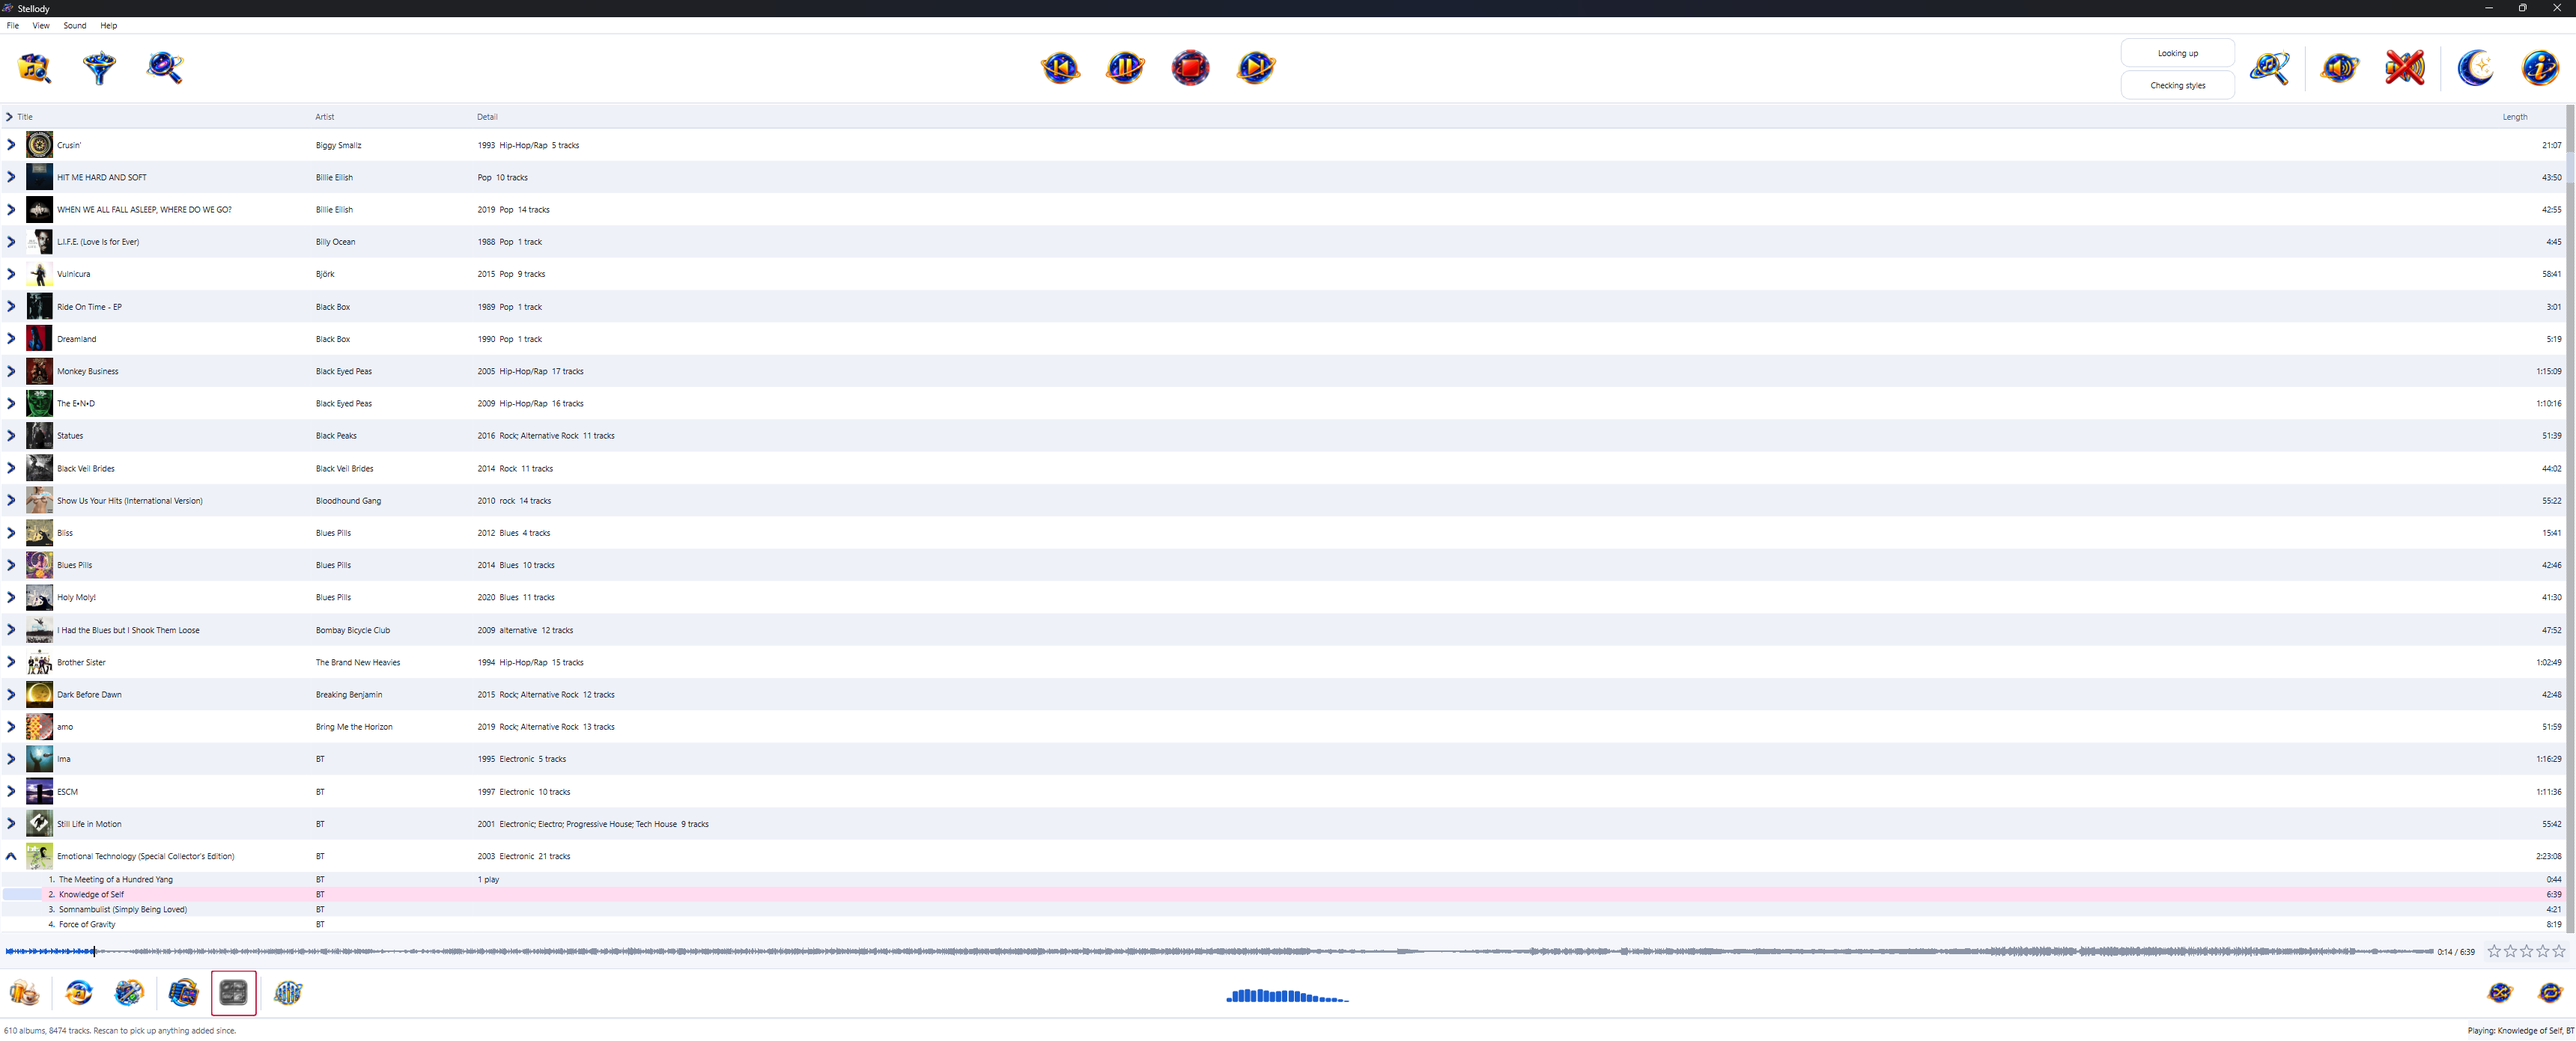
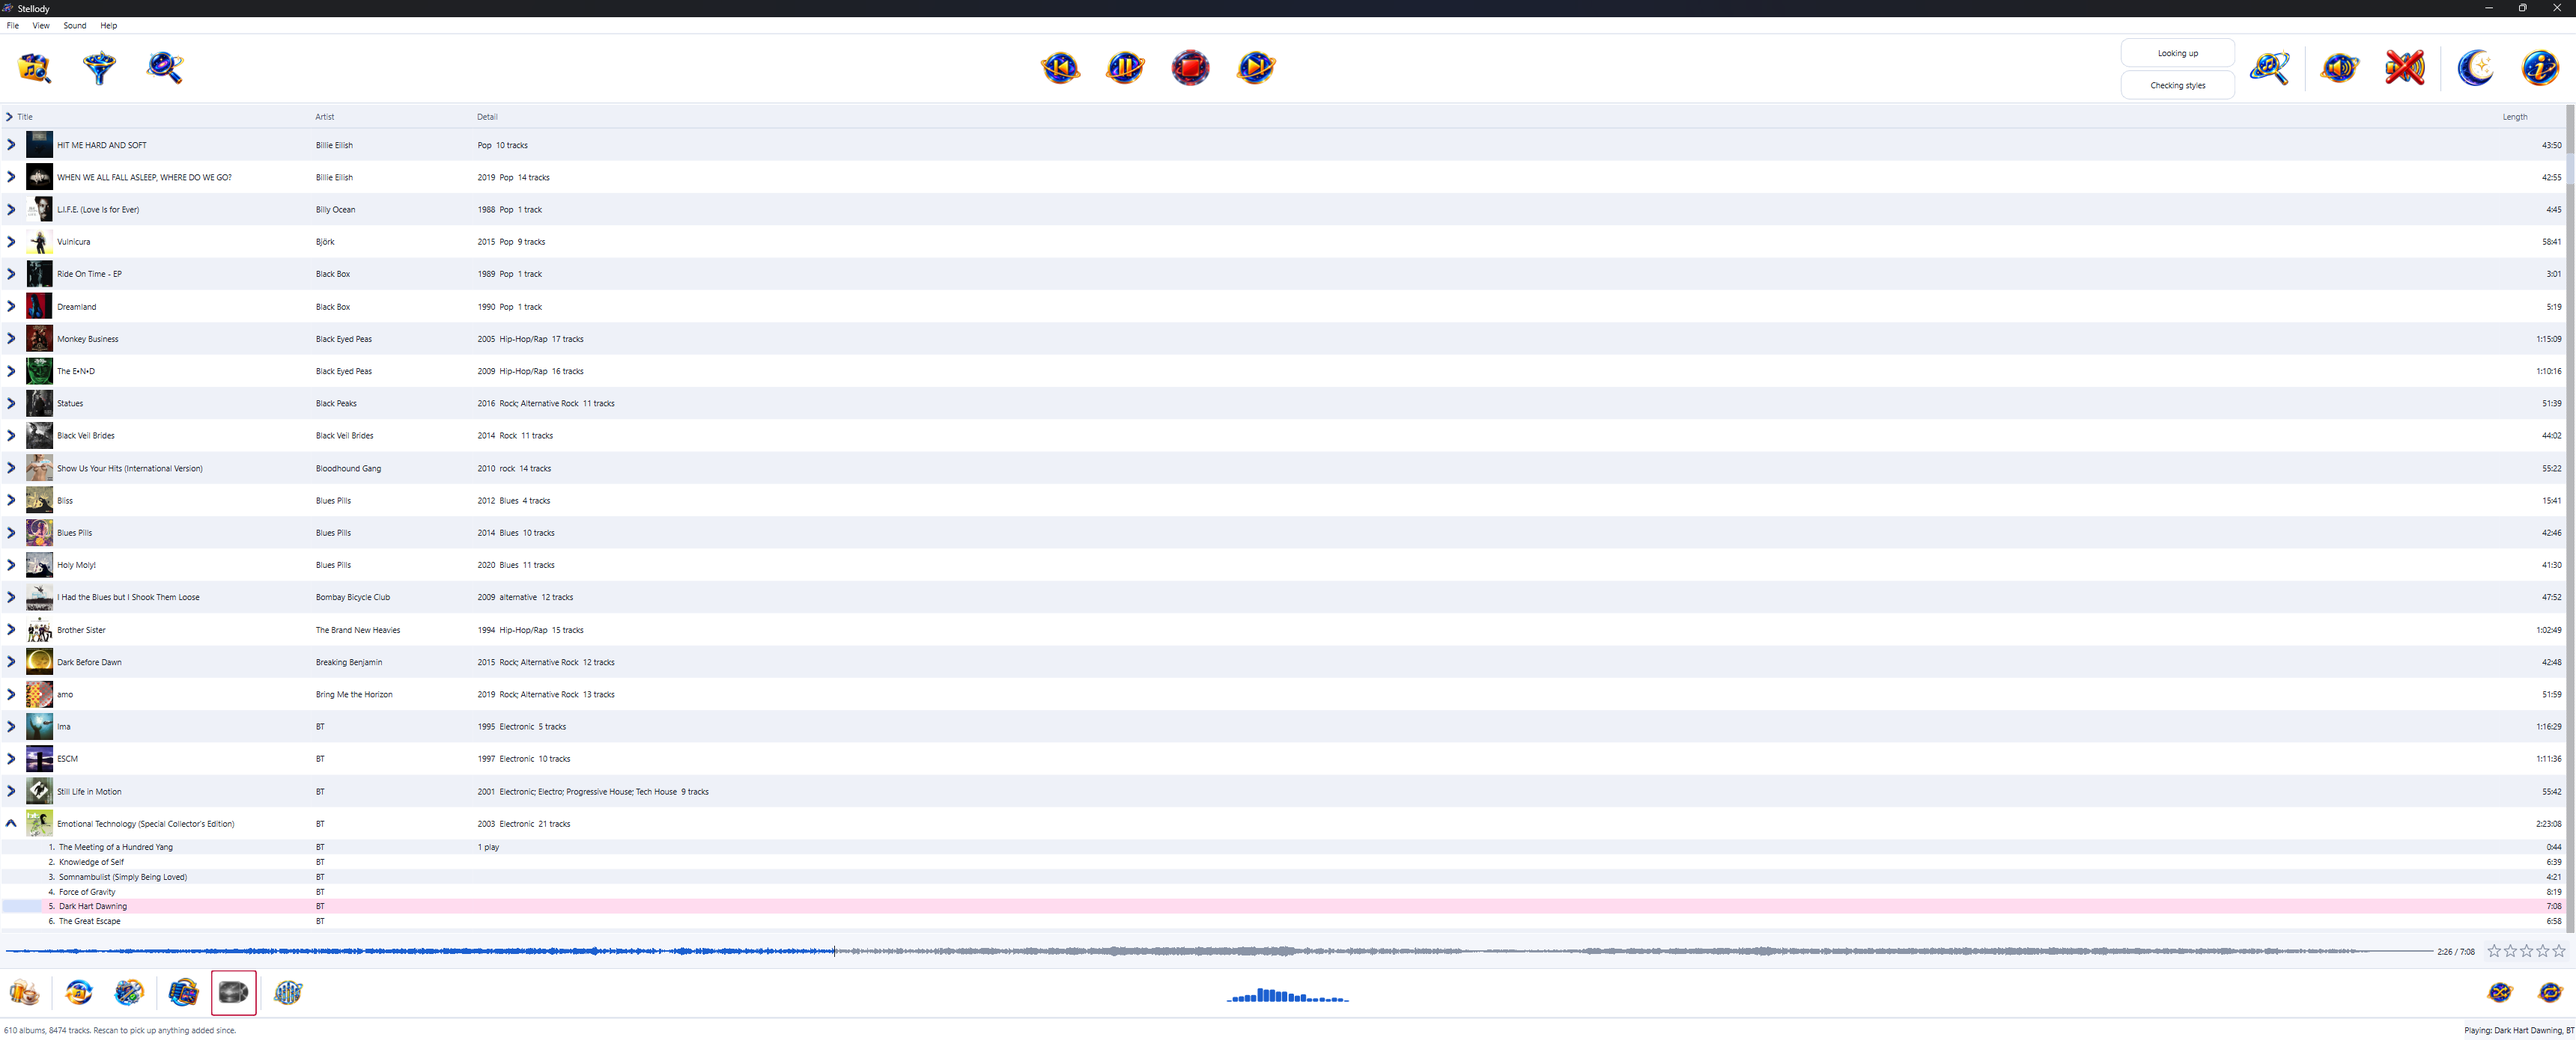
Bump the minor version and bring the docs and site up to the output-device pause
The README and the features page describe pausing when the sound output changes, the stack table and the layers table name Qt Multimedia, both screenshots are replaced and their descriptions follow what they now show. The site is stamped from VERSION.

diff --git a/docs/features.html b/docs/features.html
@@ -219,7 +219,7 @@
     </div>
   </div>
   <div class="shot" style="margin-top:2.5rem;">
-    <img src="screenshots/screenshot2.png" width="1720" height="695" alt="Stellody's list view in its light appearance: one row per album with its cover, its title and its artist, then a detail column giving the year, the genres the album states and the track count, with the length at the right. An album carrying several genres lists them all there. Each row carries the chevron that opens it, with one at the left of the Title heading for opening every album at once. BT's Emotional Technology (Special Collector's Edition) is open at the foot of the list, showing its tracks, with Knowledge of Self, the track playing, painted pink on its row. The foot of the window reads Playing: Knowledge of Self, BT. The two discovery bars sit at rest in the tray above, each labelled with its stage and empty because no search is running. The waveform of the playing track runs along the bottom, while the spectrum display sits in the middle of the strip below it.">
+    <img src="screenshots/screenshot2.png" width="1720" height="695" alt="Stellody's list view in its light appearance: one row per album with its cover, its title and its artist, then a detail column giving the year, the genres the album states and the track count, with the length at the right. An album carrying several genres lists them all there. Each row carries the chevron that opens it, with one at the left of the Title heading for opening every album at once. BT's Emotional Technology (Special Collector's Edition) is open at the foot of the list, showing its tracks, with Dark Hart Dawning, the track playing, painted pink on its row and one play noted beside the first track. The foot of the window reads Playing: Dark Hart Dawning, BT. The two discovery bars sit at rest in the tray above, each labelled with its stage and empty because no search is running. The waveform of the playing track runs along the bottom, while the spectrum display sits in the middle of the strip below it.">
   </div>
   <p class="shot-caption">The list view, with the play controls across the top and your settings along the bottom.</p>
 </section>
@@ -415,6 +415,13 @@
       sound device back and leaves the rest of your library working.</p>
     </div>
     <div class="feat">
+      <h3>Headphones in, music paused</h3>
+      <p>When your computer's sound output changes, say because headphones have just connected, Stellody
+      pauses the music rather than carrying on through the device you have left. Both play buttons turn
+      back to play at once and the bottom of the window says why. Press play and the song carries on
+      through the new output from the point you last heard.</p>
+    </div>
+    <div class="feat">
       <h3>Albums that flow, flow</h3>
       <p>Live recordings, concept albums and most dance records are made to run straight through with no
       pause between the songs. Stellody plays them that way, with no silence dropped in where the artist
@@ -606,7 +613,7 @@
     </div>
     <div class="footer-bottom">
       <p>A free, quiet music player for the collection you already own. No cloud, no account.
-      Version <!--VERSION-->1.2.2<!--/VERSION-->, model under GPL-3.0, user interface under LGPL-3.0.
+      Version <!--VERSION-->1.3.0<!--/VERSION-->, model under GPL-3.0, user interface under LGPL-3.0.
       A commercial licence for my own code is also available, separately from the open-source licences: see <a href="https://ernster.dev/commercial-licensing.html">commercial licensing</a>.
       &copy; Oliver Ernster</p>
     </div>

diff --git a/docs/index.html b/docs/index.html
@@ -111,7 +111,7 @@
 
   <div class="hero-shot fade d4">
     <div class="shot">
-      <img src="screenshots/screenshot1.png" width="1720" height="695" alt="Stellody in its dark appearance, showing the collection as a grid of album sleeves. BT's Emotional Technology (Special Collector's Edition) is picked out and opened in a pane beneath the grid: its cover, its title and its year above a five star album rating, then its tracks laid out in two columns with a length beside each. The Meeting of a Hundred Yang, the track playing, is marked on its row in the pane, while the foot of the window reads Playing: The Meeting of a Hundred Yang, BT. The play controls sit in the middle of the tray along the top, with the two discovery bars at rest to the right of them, each labelled with its stage and empty because no search is running. The waveform of the playing track runs along the bottom with the part already played picked out from the part still to come, while the spectrum display sits in the middle of the strip below it.">
+      <img src="screenshots/screenshot1.png" width="1720" height="695" alt="Stellody in its dark appearance, showing the collection as a grid of album sleeves. BT's Emotional Technology (Special Collector's Edition) is picked out and opened in a pane beneath the grid: its cover, its title and its year above a five star album rating, then its tracks laid out in two columns with a length beside each. Dark Hart Dawning, the track playing, is marked on its row in the pane and the first track notes one play, while the foot of the window reads Playing: Dark Hart Dawning, BT. The play controls sit in the middle of the tray along the top, with the two discovery bars at rest to the right of them, each labelled with its stage and empty because no search is running. The waveform of the playing track runs along the bottom with the part already played picked out from the part still to come, while the spectrum display sits in the middle of the strip below it.">
     </div>
     <p class="shot-caption">Click a cover to open the album underneath it. The rest of your collection stays exactly where it was.</p>
   </div>
@@ -312,7 +312,7 @@
     </div>
     <div class="footer-bottom">
       <p>A free, quiet music player for the collection you already own. No cloud, no account.
-      Version <!--VERSION-->1.2.2<!--/VERSION-->, model under GPL-3.0, user interface under LGPL-3.0.
+      Version <!--VERSION-->1.3.0<!--/VERSION-->, model under GPL-3.0, user interface under LGPL-3.0.
       A commercial licence for my own code is also available, separately from the open-source licences: see <a href="https://ernster.dev/commercial-licensing.html">commercial licensing</a>.
       &copy; Oliver Ernster</p>
     </div>

diff --git a/docs/download.html b/docs/download.html
@@ -158,7 +158,7 @@
     </div>
     <div class="footer-bottom">
       <p>A free, quiet music player for the collection you already own. No cloud, no account.
-      Version <!--VERSION-->1.2.2<!--/VERSION-->, model under GPL-3.0, user interface under LGPL-3.0.
+      Version <!--VERSION-->1.3.0<!--/VERSION-->, model under GPL-3.0, user interface under LGPL-3.0.
       A commercial licence for my own code is also available, separately from the open-source licences: see <a href="https://ernster.dev/commercial-licensing.html">commercial licensing</a>.
       &copy; Oliver Ernster</p>
     </div>

diff --git a/docs/why.html b/docs/why.html
@@ -268,7 +268,7 @@
     </div>
     <div class="footer-bottom">
       <p>A free, quiet music player for the collection you already own. No cloud, no account.
-      Version <!--VERSION-->1.2.2<!--/VERSION-->, model under GPL-3.0, user interface under LGPL-3.0.
+      Version <!--VERSION-->1.3.0<!--/VERSION-->, model under GPL-3.0, user interface under LGPL-3.0.
       A commercial licence for my own code is also available, separately from the open-source licences: see <a href="https://ernster.dev/commercial-licensing.html">commercial licensing</a>.
       &copy; Oliver Ernster</p>
     </div>

diff --git a/README.md b/README.md
@@ -58,6 +58,11 @@ checks run; if it ever stopped being true the suite would fail.
   that means what reaches your speakers is bit for bit what is in the file, for
   the formats that store it exactly: FLAC, WAV, AIFF, WavPack and the lossless
   ALAC inside an M4A.
+- **Headphones in, music paused.** When your computer's sound output changes,
+  say because headphones connected, Stellody pauses rather than carrying on
+  through the old one. Both play buttons show play and the foot of the window
+  says why; press play and it carries on through the new output from where you
+  last heard it.
 - **The shape of each song** drawn along the bottom, so you can see the quiet
   parts and the loud ones. Click anywhere on it to jump there.
 - **Stars and play counts.** Rate a song, rate the album separately, then read
@@ -250,7 +255,7 @@ Everything above is the product. What follows is the code.
 | Interface | PySide6 |
 | Tags | mutagen |
 | Decode | soundfile, plus PyAV for M4A, WMA, WavPack and AAC |
-| Output | sounddevice over PortAudio, taking WASAPI on Windows |
+| Output | sounddevice over PortAudio, taking WASAPI on Windows; Qt Multimedia notices the output device changing |
 | Buffers | numpy |
 | Store | SQLite |
 

diff --git a/ARCHITECTURE.md b/ARCHITECTURE.md
@@ -112,7 +112,7 @@ UI  ->  Application  ->  Domain  <-  Infrastructure
 |---|---|---|
 | `domain` | Values and rules. Frozen dataclasses, pure functions. | The standard library, minus anything with a side effect. |
 | `application` | Ports as Protocols, plus use cases. | `domain` and the standard library. |
-| `infrastructure` | SQLite, mutagen, soundfile, PyAV, sounddevice and the host API chosen from it, Qt's image codecs, Qt's network stack, the filesystem. | `domain`, `application` and `shared`. |
+| `infrastructure` | SQLite, mutagen, soundfile, PyAV, sounddevice and the host API chosen from it, Qt Multimedia's list of output devices, Qt's image codecs, Qt's network stack, the filesystem. | `domain`, `application` and `shared`. |
 | `ui` | PySide6 widgets, models, dialogs, the colour tokens in `palette.py` and the stylesheet built from them in `theme.py`. | `domain`, `application` and `shared`. |
 | `shared` | Identity: the name, the version read from `VERSION`, the copyright and the donation address, plus asset resolution and the start-hidden flag. | The standard library. |
 
